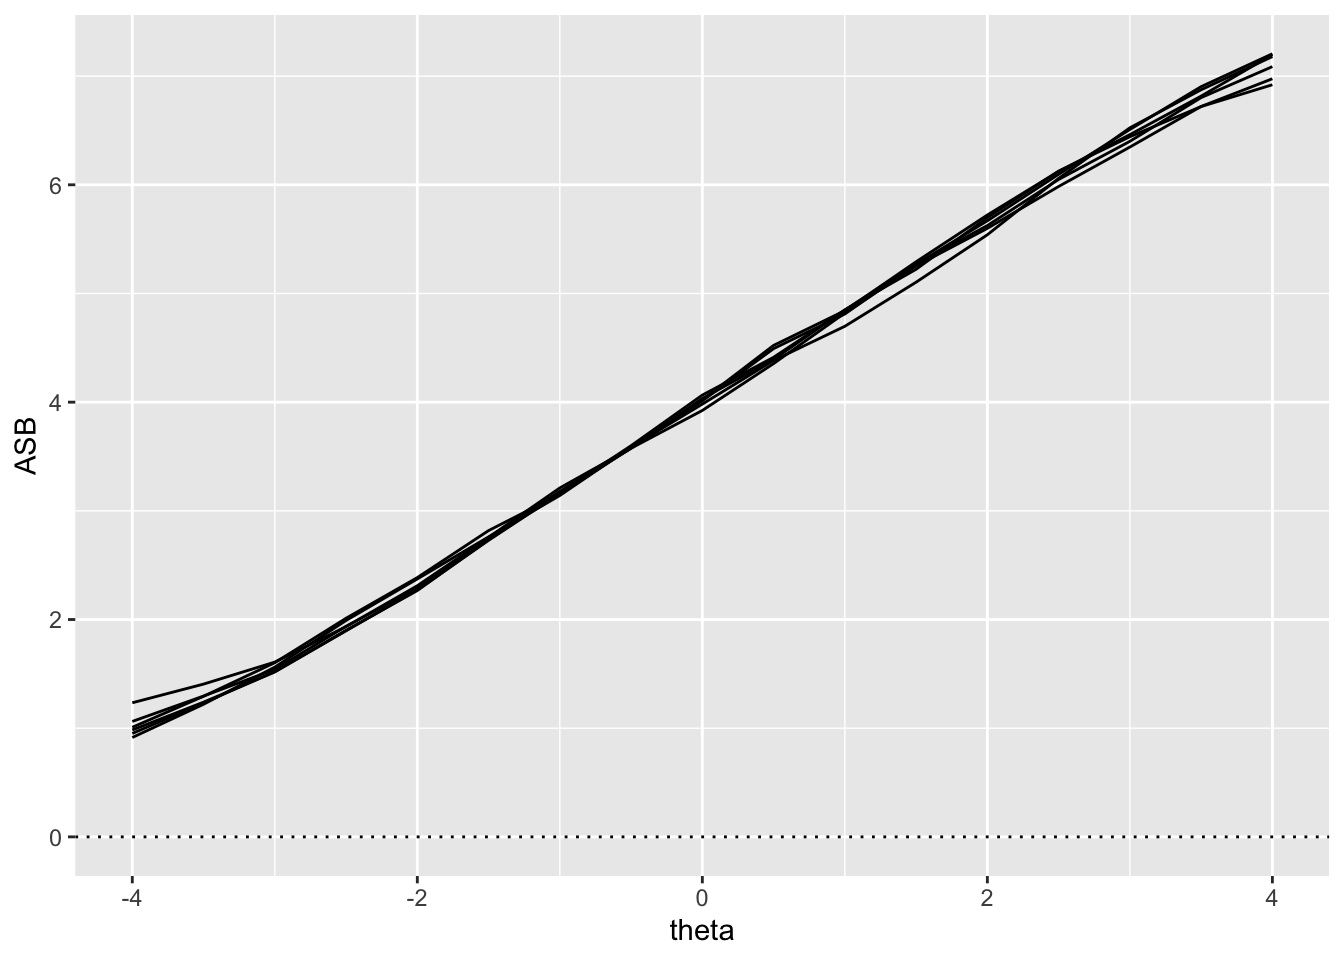
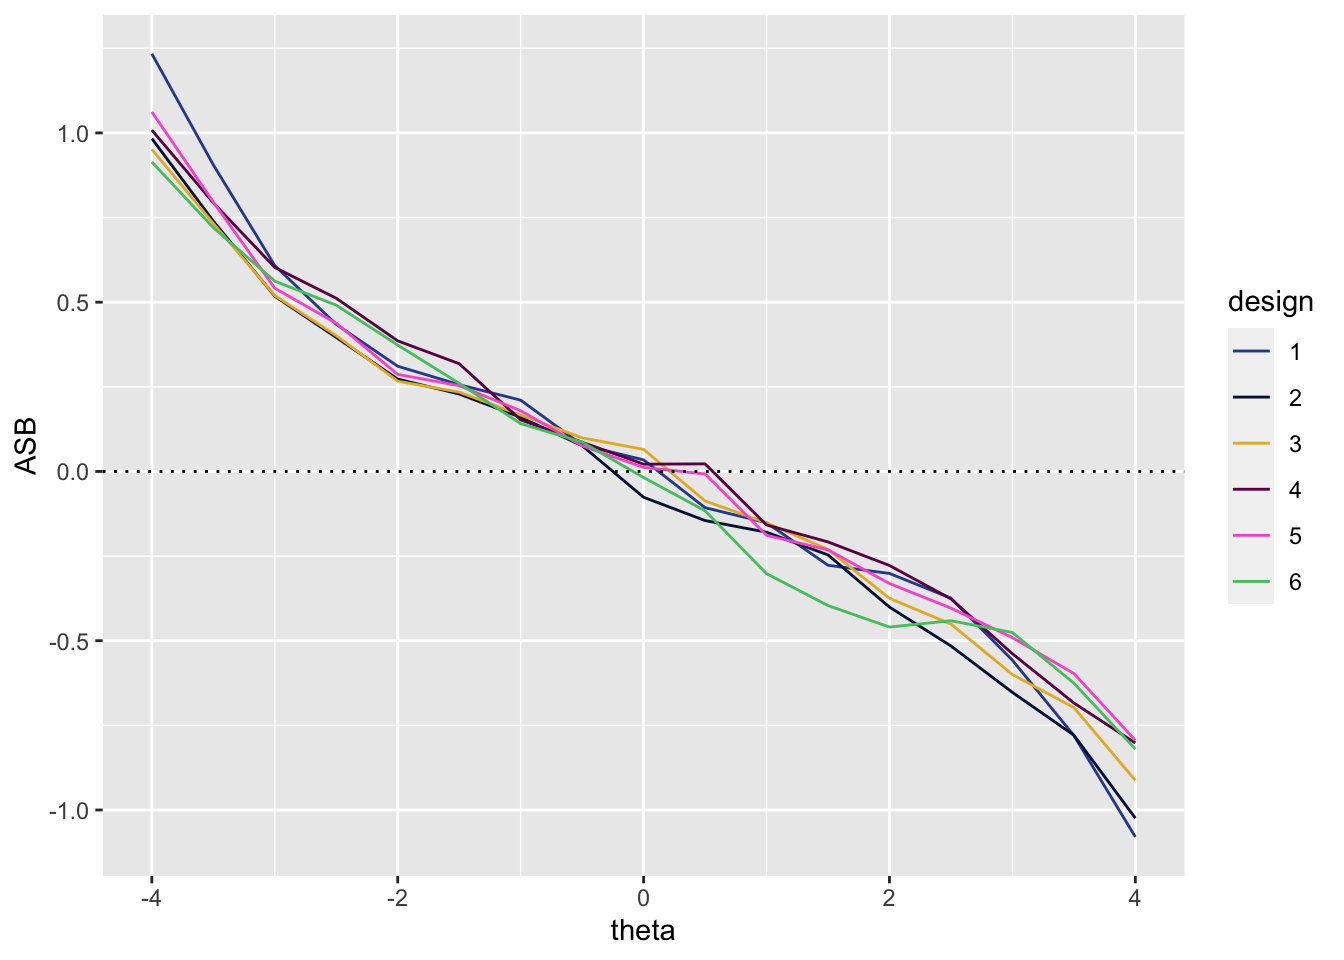
Finished adding post 2

diff --git a/content/post/2021-03-15-mst-primer-2/index.en.html b/content/post/2021-03-15-mst-primer-2/index.en.html
@@ -64,10 +64,13 @@ bibliography: references.bib
 <li>the modules and the items they contain</li>
 <li>the routing rules in the transition matrix</li>
 </ul>
-<p>Average difficulty levels for each module are shown in Figure 1 below (where <span class="math inline">\(\bar{b}\)</span> is the mean difficulty of the module, and a standard deviation of 1 is assumed)</p>
-<div class="figure">
-<img src="images/module-items.png" alt="" />
-<p class="caption">Figure 1: MST Design with average difficulty levels</p>
+<p>Average difficulty levels for each module are shown in Figure <a href="#fig:module-items">1</a>, where <span class="math inline">\(\bar{b}\)</span> is the mean difficulty of the module, and a standard deviation of 1 is assumed.</p>
+<pre class="r"><code>knitr::include_graphics(&quot;images/module-items.png&quot;)</code></pre>
+<div class="figure"><span id="fig:module-items"></span>
+<img src="images/module-items.png" alt="MST Design with average difficulty levels" width="230" />
+<p class="caption">
+Figure 1: MST Design with average difficulty levels
+</p>
 </div>
 <div id="the-simulated-item-bank" class="section level4">
 <h4>The Simulated Item Bank</h4>
@@ -109,29 +112,10 @@ modules[59:68, module(&#39;G&#39;)] &lt;- 1</code></pre>
 <p>The final part of the design activity is construction of the routing paths and cut-offs used for next module selection. This is done by creating an <span class="math inline">\(R \times R\)</span> <em>transition matrix</em> which shows the valid paths to modules in the next stage (where <span class="math inline">\(R\)</span> is the number of modules). A value of 1 in the <code>routing</code> matrix in the code sample below indicates that a path exists from module <span class="math inline">\(i\)</span> to module <span class="math inline">\(j\)</span>. To use the example below the rule</p>
 <p><code>routing[module('A'), module('B'):module('C')] &lt;- 1</code></p>
 <p>means module A routes to modules B and C.</p>
-<p>In addition to the routing paths, a set of cut-off criteria must be given. These are expressed in terms of the ability estimate <span class="math inline">\(\hat{\theta}\)</span> using the <code>cutoff</code> matrix (see below). To use an example here, the rule <code>cutoff[module('B'),] &lt;- c(-Inf, 0.0)</code> means that candidates with ability estimates from minus infinity to zero will be routed to module B. The rule <code>cutoff[module('C'),] &lt;- c(0.0, Inf)</code> means that candidates with ability estimates from zero to positive infinity will be routed to module C.</p>
 <pre class="r"><code>routing &lt;- matrix(0, 7, 7)
 routing[module(&#39;A&#39;), module(&#39;B&#39;):module(&#39;C&#39;)] &lt;- 1
 routing[module(&#39;B&#39;), module(&#39;D&#39;):module(&#39;F&#39;)] &lt;- 1
-routing[module(&#39;C&#39;), module(&#39;E&#39;):module(&#39;G&#39;)] &lt;- 1
-
-cutoff &lt;- matrix(NA, 7, 2)
-cutoff[module(&#39;B&#39;),] &lt;- c(-Inf, 0.0)
-cutoff[module(&#39;C&#39;),] &lt;- c(0.0, Inf)
-cutoff[module(&#39;D&#39;),] &lt;- c(-Inf, -1.0)
-cutoff[module(&#39;E&#39;),] &lt;- c(-1.0, 0.0)
-cutoff[module(&#39;F&#39;),] &lt;- c(0.0, 1.0)
-cutoff[module(&#39;G&#39;),] &lt;- c(1.0, Inf)
-
-(cutoff)</code></pre>
-<pre><code>##      [,1] [,2]
-## [1,]   NA   NA
-## [2,] -Inf    0
-## [3,]    0  Inf
-## [4,] -Inf   -1
-## [5,]   -1    0
-## [6,]    0    1
-## [7,]    1  Inf</code></pre>
+routing[module(&#39;C&#39;), module(&#39;E&#39;):module(&#39;G&#39;)] &lt;- 1</code></pre>
 <p>As can be seen, module D to module G are final stage modules, so do not route onward.</p>
 </div>
 </div>
@@ -202,9 +186,9 @@ dfMSTResponse &lt;- randomMST(trueTheta = theta,
 ##                              
 ## Nr     1  2  3  4  5  6  7  8
 ## Item  21 22 23 24 25 26 27 28
-## Resp.  1  0  0  1  1  0  0  0
+## Resp.  0  0  1  0  0  1  1  1
 ## 
-##     Provisional ability estimate (SE) after stage 2: 0.68 (0.437)
+##     Provisional ability estimate (SE) after stage 2: 0.872 (0.439)
 ## 
 ##   Stage 3:
 ##     Module administered: 6 
@@ -214,7 +198,7 @@ dfMSTResponse &lt;- randomMST(trueTheta = theta,
 ##                                    
 ## Nr     1  2  3  4  5  6  7  8  9 10
 ## Item  49 50 51 52 53 54 55 56 57 58
-## Resp.  1  1  1  0  1  1  1  0  1  1
+## Resp.  1  1  1  0  1  1  1  0  0  1
 ## 
 ##     Provisional ability estimate (SE) after stage 3: 1.07 (0.372)
 ## 
@@ -230,10 +214,10 @@ dfMSTResponse &lt;- randomMST(trueTheta = theta,
 <p>The Module Information Function is used to determine the ‘best’ (that is the most informative) module to route to in the next stage. In this case the modules that the candidate was routed to were A, C, F.</p>
 <p>A plot can be made as follows, showing the highlighted route through the multi-stage test. Note that the output from the <code>randomMST</code> function and the plot use the module and item indices (rather than their labels), so you may want to map these back to a name for ease of interpretation.</p>
 <pre class="r"><code>plot(dfMSTResponse)</code></pre>
-<div class="figure">
-<img src="{{< blogdown/postref >}}index.en_files/figure-html/show%20simulated%20test-1.png" alt="Example routing" width="672" />
+<div class="figure"><span id="fig:unnamed-chunk-1"></span>
+<img src="{{< blogdown/postref >}}index.en_files/figure-html/unnamed-chunk-1-1.png" alt="Example routing" width="672" />
 <p class="caption">
-(#fig:show simulated test)Example routing
+Figure 2: Example routing
 </p>
 </div>
 <pre><code>## The plot was not captured!</code></pre>
@@ -511,7 +495,7 @@ G
 </tbody>
 </table>
 <p>Here <strong>Stage (n)</strong> is the number of items in each stage of the MST, and <strong>Module (b)</strong> is the target mean difficulty for each module.</p>
-<p>We define the <code>mstDesign()</code> function to generate the set of test designs (1-6) we want to investigate. This function varies the number of items for each module by stage and can be repeatedly applied to a set of designs which we load in from a CSV file. The <code>mstDesign()</code> function effectively generates multiple variants of the test design.</p>
+<p>We define the <code>mstDesign()</code> function to generate the set of test designs we want to investigate. This function varies the number of items for each module by stage and can be repeatedly applied to a set of designs which we load in from a CSV file. The separation of the R code from the design parameters makes it easier to re-run simulations with different parameters and reduces likelihood of errors. The <code>mstDesign()</code> function effectively generates multiple variants of the test design based on this CSV input, with the <code>pmap()</code> function allowing us to apply <code>mstDesign()</code> to each row in the CSV.</p>
 <pre class="r"><code>mstDesign &lt;- function(design, stage1, stage2, stage3,
                       module_a, module_b, module_c, module_d, module_e, module_f, module_g) {
   matrixN &lt;- stage1 + (2 * stage2) + (4 * stage3)
@@ -565,59 +549,63 @@ simulation.final &lt;- list(method = &quot;BM&quot;)</code></pre>
 <div id="asb-and-rmse-values" class="section level4">
 <h4>ASB and RMSE values</h4>
 <p>The results can now be graphed. Following <span class="citation">Ippel and Magis (<a href="#ref-ippel2020efficient" role="doc-biblioref">2020</a>)</span>, and <span class="citation">Magis, Yan, and Von Davier (<a href="#ref-magis2017computerized" role="doc-biblioref">2017</a>)</span> we compute the averaged signed bias (ASB) and root mean squared error (RMSE) values for each design and for each ability level. ASB is the mean difference between estimated and true ability levels. RMSE is the square root of the mean of the squared differences between estimated and true ability levels. With both measures, lower is better.</p>
-<pre class="r"><code>simulation.ASB &lt;- simulation.RMSE &lt;- matrix(NA, length(simulation.levels), 6)
+<p>In the following code snippet we define the <code>ASB()</code> and <code>RMSE()</code> functions, and then apply them repeatedly over the simulation results to build up data frames for the ASB and RMSE statistic so that we can run a comparison plot for each design.</p>
+<pre class="r"><code>simulation.ASB &lt;- simulation.RMSE &lt;- matrix(NA, length(simulation.levels), length(testDesigns))
 ASB &lt;- function(t, th) mean(t-th)
 RMSE &lt;- function(t, th) sqrt(mean((t-th)^2))
 
 for (i in 1:length(simulation.levels)) {
-  for (j in 1:6) {
+  for (j in 1:length(testDesigns)) {
     index &lt;- which(simulation.candidates == simulation.levels[i])
-    simulation.ASB[i,j] &lt;- ASB(simulation.responses[index,j], simulation.candidates[i])
-    simulation.RMSE[i,j] &lt;- RMSE(simulation.responses[index,j], simulation.candidates[i])
+    simulation.ASB[i,j] &lt;- ASB(simulation.responses[index,j], simulation.levels[i])
+    simulation.RMSE[i,j] &lt;- RMSE(simulation.responses[index,j], simulation.levels[i])
   }
 }
 
 dfASB &lt;- data.frame(simulation.ASB)
-dfASB$theta &lt;- simulation.levels
+dfASB$levels &lt;- simulation.levels
 
 dfRMSE &lt;- data.frame(simulation.RMSE)
-dfRMSE$theta &lt;- simulation.levels</code></pre>
-<pre class="r"><code>ggplot(data = dfASB, aes(x = theta)) +
-  geom_line(aes(y = X1)) + 
-  geom_line(aes(y = X2)) +
-  geom_line(aes(y = X3)) +
-  geom_line(aes(y = X4)) +
-  geom_line(aes(y = X5)) +
-  geom_line(aes(y = X6)) +
+dfRMSE$levels &lt;- simulation.levels</code></pre>
+<pre class="r"><code>designIDs &lt;- unlist(map(testDesigns, function(x) x$design))
+colnames(dfASB) &lt;- append(as.character(designIDs), &#39;theta&#39;)
+visASB &lt;- dfASB %&gt;%
+  pivot_longer(!theta, names_to = &quot;design&quot;, values_to = &quot;ASB&quot;)
+
+cdPalette &lt;- c(&quot;#2F4C9C&quot;, &quot;#041542&quot;, &quot;#E6B632&quot;, &quot;#6B0954&quot;, &quot;#F562D3&quot;, &quot;#52C46D&quot;)
+
+ggplot(data = visASB, aes(x = theta, y = ASB)) +
+  geom_line(aes(colour=design)) +
   geom_hline(yintercept = 0.0, linetype=&quot;dotted&quot;) +
-  labs(x = &quot;theta&quot;, y = &quot;ASB&quot;)</code></pre>
+  labs(x = &quot;theta&quot;, y = &quot;ASB&quot;) +
+  scale_colour_manual(values=cdPalette)</code></pre>
 <div class="figure"><span id="fig:ASB"></span>
 <img src="{{< blogdown/postref >}}index.en_files/figure-html/ASB-1.png" alt="ASB" width="672" />
 <p class="caption">
-Figure 1: ASB
+Figure 3: ASB
 </p>
 </div>
-<pre class="r"><code>ggplot(data = dfRMSE, aes(x = theta)) +
-  geom_line(aes(y = X1)) + 
-  geom_line(aes(y = X2)) +
-  geom_line(aes(y = X3)) +
-  geom_line(aes(y = X4)) +
-  geom_line(aes(y = X5)) +
-  geom_line(aes(y = X6)) +
-  labs(x = &quot;theta&quot;, y = &quot;RMSE&quot;)</code></pre>
+<pre class="r"><code>colnames(dfRMSE) &lt;- append(as.character(designIDs), &#39;theta&#39;)
+visRMSE &lt;- dfRMSE %&gt;%
+  pivot_longer(!theta, names_to = &quot;design&quot;, values_to = &quot;RMSE&quot;)
+
+ggplot(data = visRMSE, aes(x = theta, y = RMSE)) +
+  geom_line(aes(colour=design)) +
+  labs(x = &quot;theta&quot;, y = &quot;RMSE&quot;) +
+  scale_colour_manual(values=cdPalette)</code></pre>
 <div class="figure"><span id="fig:RMSE"></span>
 <img src="{{< blogdown/postref >}}index.en_files/figure-html/RMSE-1.png" alt="RMSE" width="672" />
 <p class="caption">
-Figure 2: RMSE
+Figure 4: RMSE
 </p>
 </div>
-<p>Both these graphs show that there is no variation between the different designs - they all show a similar pattern, with overestimation for higher ability levels. At this stage we may want to vary other aspects of the design (for example increasing the number of items, varying the cutoffs used for routing, or modifying the module difficulties). This process can be iterated on until we are happy that there are no further improvements we can make.</p>
+<p>Both these graphs show that there is very little variation between the different designs - they all show a similar pattern, with overestimation for very low and very high ability levels. If anything, designs 4 and 5 appear to give the least bias and error (especially around the zero theta point). These designs both have 12 items in the final stage module; so this is potentially an avenue worth investigating - increasing the number of items in the final stage may be the best approach. Further simulations can be run to look into this.</p>
 <p>For more details on how to run simulations like this see Chapter 7 of <span class="citation">(Magis, Yan, and Von Davier <a href="#ref-magis2017computerized" role="doc-biblioref">2017</a>)</span>, or check out the <a href="https://cran.r-project.org/web/packages/mstR/index.html">mstR</a> package.</p>
 </div>
 </div>
 </div>
-<div id="references" class="section level1 unnumbered">
-<h1>References</h1>
+<div id="references" class="section level2 unnumbered">
+<h2>References</h2>
 <div id="refs" class="references">
 <div id="ref-ippel2020efficient">
 <p>Ippel, Lianne, and David Magis. 2020. “Efficient Standard Errors in Item Response Theory Models for Short Tests.” <em>Educational and Psychological Measurement</em> 80 (3): 461–75.</p>

diff --git a/content/authors/james-page/_index.md b/content/authors/james-page/_index.md
@@ -1,0 +1,52 @@
+---
+# Display name
+title: James Page
+
+# Is this the primary user of the site?
+superuser: false
+
+# Role/position
+role: Technical Consultant
+
+# Organizations/Affiliations
+organizations:
+- name: SP Educational Assessment
+  url: "https://www.speduconsulting.co.uk/"
+
+# Short bio (displayed in user profile at end of posts)
+bio: I am an experienced NLP specialist who has worked in a variety of roles including software engineering, technical pre-sales and product management. For the last five years I've worked in a number of Agile product development environments ,and I enjoy working with cross-functional teams to deliver great products that users love. I have an interest in using IRT to help develop language assessments, and applying machine learning techniques to support assessment and language learning.
+
+education:
+  courses:
+  - course: MSc in Speech and Language Processing
+    institution: The University of Edinburgh
+    year: 1994
+  - course: BA in English Language, Literature and Linguistics
+    institution: Newcastle University
+    year: 1993
+
+# List each skill with a dash
+skills:
+- R, Python, Javascript
+- Docker, Kubernetes
+- Git
+- Named Entity Recognition, Voice Assistants
+- spaCY, NLTK, Gensim
+
+
+# Social/Academic Networking
+# For available icons, see: https://sourcethemes.com/academic/docs/page-builder/#icons
+#   For an email link, use "fas" icon pack, "envelope" icon, and a link in the form "mailto:your-email@example.com" or "#contact" for contact widget.
+social:
+- icon: envelope
+  icon_pack: fas
+  link: "mailto:james@speduconsulting.co.uk"
+- icon: github
+  icon_pack: fab
+  link: https://github.com/jp-loonytoon
+- icon: linkedin
+  icon_pack: fab
+  link: https://www.linkedin.com/in/james-page-101/
+---
+
+I am an experienced NLP specialist who has worked in a variety of roles including software engineering, technical pre-sales and product management. For the last five years I've worked in a number of Agile product development environments ,and I enjoy working with cross-functional teams to deliver great products that users love. I have an interest in using IRT to help develop language assessments, and applying machine learning techniques to support assessment and language learning.
